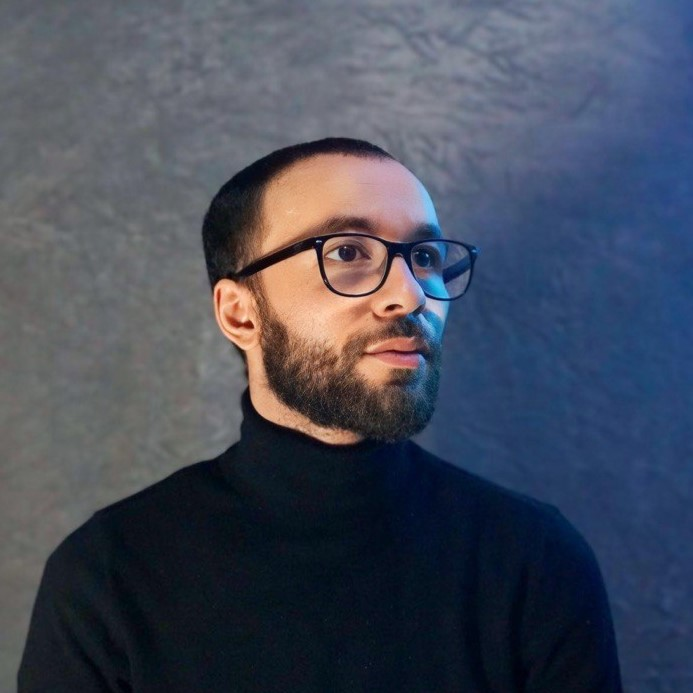
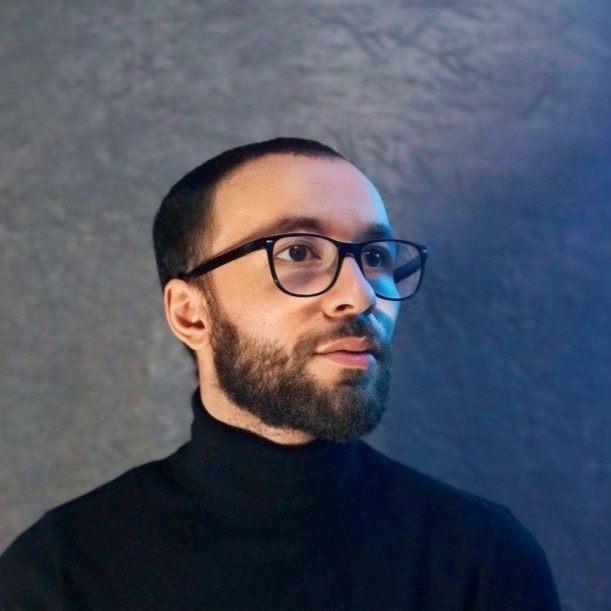
cv. done

diff --git a/src/components/sections/Contact.tsx b/src/components/sections/Contact.tsx
@@ -3,7 +3,7 @@
 import {
   Copy,
   CopyCheckIcon,
-  Github,
+  /* Github, */
   LucideLinkedin,
   Mail,
   PhoneIcon,
@@ -12,8 +12,10 @@ import Link from "next/link";
 import React from "react";
 import { Button } from "../ui/button";
 import { toast } from "sonner";
+import { useTranslations } from "next-intl";
 
 const Contact = () => {
+  const t = useTranslations("contact");
   const copyClipBoard = (value: string) => {
     navigator.clipboard.writeText(value);
     toast("Copied", {
@@ -22,108 +24,72 @@ const Contact = () => {
     });
   };
 
+  const contactItems = [
+    {
+      icon: <PhoneIcon width={15} height={15} className="text-neutral-600 dark:text-neutral-400" />,
+      label: t("infos.phone"),
+      value: t("phone"),
+      copyable: true,
+      isLink: false,
+    },
+    {
+      icon: <Mail width={15} height={15} className="text-neutral-600 dark:text-neutral-400" />,
+      label: t("infos.email"),
+      value: t("email"),
+      copyable: true,
+      isLink: true,
+      linkPrefix: "mailto:",
+    },
+    {
+      icon: <LucideLinkedin width={15} height={15} className="text-neutral-600 dark:text-neutral-400" />,
+      label: t("infos.linkedin"),
+      value: t("linkedin"),
+      copyable: false,
+      isLink: true,
+      linkPrefix: "",
+      href: "https://www.linkedin.com/in/oussama-hirich/",
+    },
+  ];
+  
+
   return (
     <div className="cursor-default mb-20">
-        <h1 className="mb-4 font-medium text-neutral-800 dark:text-neutral-200">
-          Contact
-        </h1>
+    <h1 className="mb-2 font-medium text-neutral-800 dark:text-neutral-200">
+      {t('title')}
+    </h1>
 
-        <div className="flex w-full items-center mb-4">
-          <div className="flex md:w-40 w-30 items-center gap-2">
-            <PhoneIcon
-              width={15}
-              height={15}
-              className="text-neutral-600 dark:text-neutral-400"
-            />
-            <p className="text-neutral-600 dark:text-neutral-400">
-              Phone
-            </p>
-          </div>
-          <div className="text-neutral-800 flex-1 text-sm md:text-md dark:text-neutral-200">
-            +33 7 66 49 91 36
-          </div>
-          <div className=" ">
-            <Button
-              variant="ghost"
-              className="hover:cursor-pointer"
-              onClick={() => copyClipBoard("+33 7 66 49 91 36")}
-            >
-              <Copy
-                width={15}
-                height={15}
-                className="text-neutral-600 dark:text-neutral-400"
-              />
-            </Button>
-          </div>
+    {contactItems.map((item, index) => (
+      <div key={index} className="flex gap-4 w-full items-center h-10">
+        <div className="flex w-30 items-center gap-2">
+          {item.icon}
+          <p className="text-neutral-600 dark:text-neutral-400">{item.label}</p>
         </div>
-
-
-        <div className="flex w-full items-center mb-4">
-          <div className="flex md:w-40 w-30 items-center gap-2">
-            <Mail
-              width={15}
-              height={15}
-              className="text-neutral-600 dark:text-neutral-400"
-            />
-            <p className="text-neutral-600  dark:text-neutral-400">
-              Email
-            </p>
-          </div>
-          <div className="text-neutral-800 flex-1 text-sm md:text-md dark:text-neutral-200">
-            <Link href={"mailto:hirich.oussama@gmail.com"}
-          className="text-sm md:text-md">
-            hirich.oussama@gmail.com
-          </Link>
-          </div> 
-          <div>
-            <Button
-              variant="ghost"
-              className="hover:cursor-pointer"
-              onClick={() => copyClipBoard("hirich.oussama@gmail.com")}
+        <div className="text-neutral-800 flex-1 text-sm md:text-md dark:text-neutral-200">
+          {item.isLink ? (
+            <Link
+              href={item.href || `${item.linkPrefix}${item.value}`}
+              target={item.href ? "_blank" : "_self"}
+              className="text-sm md:text-md"
             >
-              <Copy
-                width={15}
-                height={15}
-                className="text-neutral-600 dark:text-neutral-400"
-              />
-            </Button>
-          </div>
+              {item.value}
+            </Link>
+          ) : (
+            item.value
+          )}
         </div>
-
-
-        <div className="flex flex-row items-center mb-4">
-          <div className="md:w-40 w-30 flex items-center gap-2">
-            <LucideLinkedin
-              width={15}
-              height={15}
-              className="text-neutral-600 dark:text-neutral-400"
-            />
-            <p className="text-neutral-600 dark:text-neutral-400">LinkedIn</p>
-          </div>
-          <Link
-            href={"https://www.linkedin.com/in/oussama-hirich/"}
-            target="blank"
+        {item.copyable && (
+          <Button
+            variant="ghost"
+            className="hover:cursor-pointer"
+            onClick={() => copyClipBoard(item.value)}
           >
-            /HIRICH Oussama
-          </Link>
-        </div>
-
-
-        <div className="flex flex-row items-center mb-4">
-          <div className="md:w-40 w-30 flex items-center gap-2">
-            <Github
-              width={15}
-              height={15}
-              className="text-neutral-600 dark:text-neutral-400"
-            />
-            <p className="text-neutral-600 dark:text-neutral-400">GitHub</p>
-          </div>
-          <Link href={"https://github.com/VerCeel"} target="blank">
-            /VerCeel
-          </Link>
-        </div>
-    </div>
-  );
+            <Copy className="text-neutral-600 size-3 dark:text-neutral-400" />
+          </Button>
+        )}
+      </div>
+    ))}
+  </div>
+);
 };
-
+  
 export default Contact;

diff --git a/src/components/MyImage.tsx b/src/components/MyImage.tsx
@@ -1,27 +1,16 @@
 import React from 'react'
 import Image from 'next/image'
-import { usePathname } from 'next/navigation';
 
 const MyImage = ({className} : {className?: string}) => {
-  const params = usePathname();
+  
   return (
-    <div>{
-      params === "/en" ? 
+    <div>
       <Image src='/images/cv-img.jpg' 
             alt="myPhoto"
             width={693}
             height={693}
             className={className}
-            /> :
-            <Image src='/images/cv-img-fr.jpg' 
-            alt="myPhoto"
-            width={693}
-            height={693}
-            className={className}
-            />
-      }
-       
-            
+            />        
     </div>
   )
 }

diff --git a/src/components/sections/Education.tsx b/src/components/sections/Education.tsx
@@ -17,9 +17,9 @@ const Education = () => {
         {markup("title")}
       </h1>
       {raw('items').map((item : Data, index : number) =>(
-        <div className="flex flex-row mb-4"
+        <div className="flex flex-row mb-4 gap-4"
         key={index}>
-        <div className="md:w-40 w-30">
+        <div className="w-30">
           <p className="text-neutral-600 text-md dark:text-neutral-400">
           {item.period}
           </p>

diff --git a/src/components/sections/Work.tsx b/src/components/sections/Work.tsx
@@ -19,9 +19,9 @@ const WorkExp = () => {
         {markup("title")}
       </h1>
       {raw('items').map((item : Data, index : number) =>(
-        <div className="flex flex-row mb-4"
+        <div className="flex flex-row mb-4 gap-4"
         key={index}>
-        <div className="md:w-40 w-30">
+        <div className="w-30">
           <p className="text-neutral-600 text-md dark:text-neutral-400">
           {item.period}
           </p>

diff --git a/src/components/sections/Header.tsx b/src/components/sections/Header.tsx
@@ -28,7 +28,7 @@ const NavBar = () => {
            {t('title')}
           </p>
           <Link
-            href={t('link')}
+            href={'https://www.verceel.com/'}
             target="blank"
             className="bg-neutral-300 px-2 py-[2px] hover:opacity-80 text-neutral-600 text-sm rounded-full 
             dark:bg-neutral-600 dark:text-neutral-400"

diff --git a/src/components/SwitchLanguage.tsx b/src/components/SwitchLanguage.tsx
@@ -17,7 +17,7 @@ const SwitchLanguage = () => {
         className="cursor-pointer"
         size="icon"
         variant='ghost'>
-            {params === '/en' ? <UK/> : <FR/>}
+            {params === '/en' ? <FR/> : <UK/>}
         </Button>
     </Link>
   )
